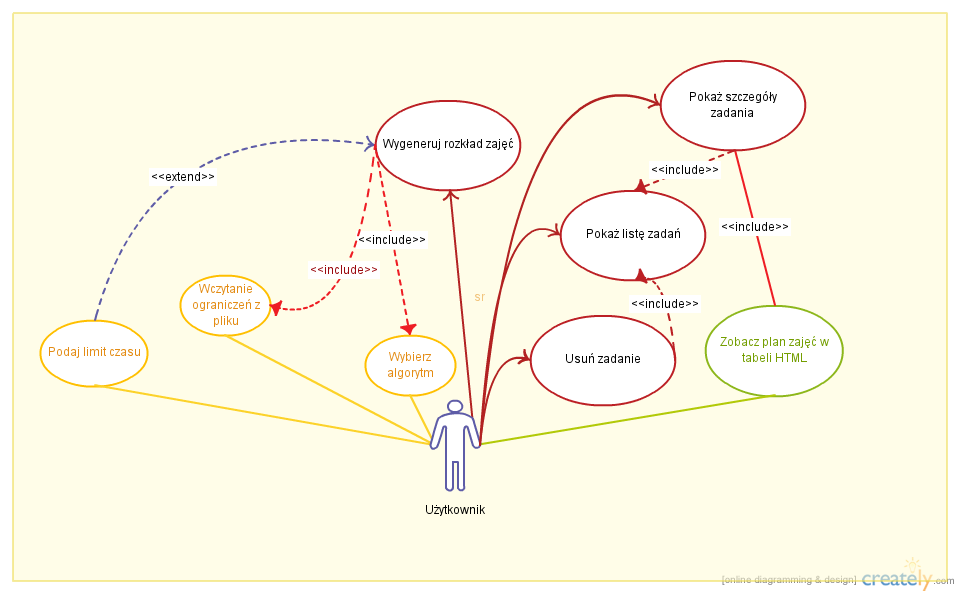
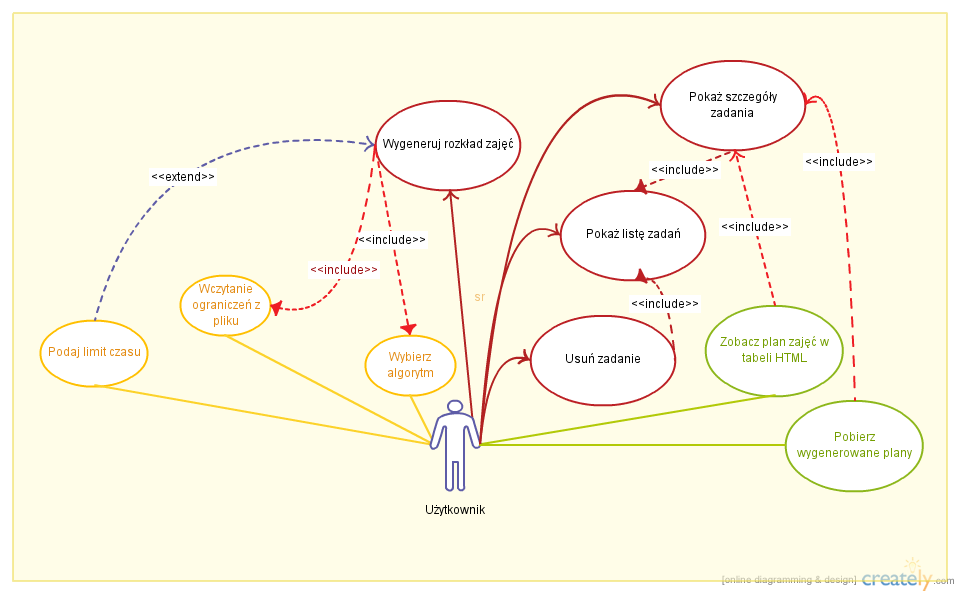
dfjhgkdjfh

diff --git a/docs/chapters/projekt_systemu.tex b/docs/chapters/projekt_systemu.tex
@@ -26,6 +26,7 @@
 \item Pobieranie z pliku tekstowego wedle ustalonego wzorca zestawu ograniczeń opisujących potrzeby rozkładu zajęć.
 \item Podgląd listy wykonanych wcześniej zadań oraz stanu uruchomionych obecnie procesów.
 \item Wybranie z listy zadań konkretnego przypadku i odczytanie informacji o przyporządkowanych zajęciach do poszczególnych kursów.
+\item Pobranie wygenerowanego rozkładu zajęć w formie pliku \emph{.CSV}.
 \item W widoku zakończonego zadania możliwość wybrania z listy programów nauczania dowolnego z nich i wizualizacji planu w komponencie kalendarza.
 \end{itemize}
 \section{Zastosowanie}
@@ -47,7 +48,7 @@
 \item \textbf{Pokaż listę zadań} - Po wybraniu z menu opcji \emph{List all tasks} pokaże się lista dotychczas wykonanych zadań.
 \item \textbf{Usuń zadanie} - Po wybraniu z menu opcji \emph{List all tasks} pokaże się lista zadań, a każde z nich będzie można usunąć poprzez kliknięcie na przycisk \emph{Delete}, co wywoła następnie odświeżenie listy.
 \item \textbf{Zobacz plan zajęć w tabeli HTML} - Po wybraniu konkretnego zadania z widoku listy, dla każdego elementu z listy programów nauczania zawartych w planie, dostępny będzie przycisk wywołujący wizualizację wygenerowanego dla niego planu w postaci komponentu kalendarza.
-%\item{Pobierz wygenerowane plany} - Po wybraniu konkretnego zadania z widoku listy, dostępny będzie przycisk umożliwiający pobranie wszystkich planów w postaci arkuszy w pliku \emph{.csv}.
+\item{Pobierz wygenerowane plany} - Po wybraniu konkretnego zadania z widoku listy, dostępny będzie przycisk umożliwiający pobranie wszystkich planów w postaci arkuszy w pliku \emph{.csv}.
 \end{enumerate}
 \section{Architektura systemu}
 \paragraph{} Ogólna architektura systemu oparta jest na modelu klient - serwer. Wszystkie operacje logiczne są wykonywane po stronie serwera, natomiast część kliencka odpowiada jedynie za pobranie danych i prezentację wyników. W części serwera zawarte są następujące komponenty.

diff --git a/docs/chapters/ga.tex b/docs/chapters/ga.tex
@@ -19,6 +19,12 @@
 \item Przeprowadzana jest mutacja, czyli wprowadzenie drobnych losowych zmian u niektórych osobników.
 \item Rodzi się kolejne pokolenie. Aby utrzymać stałą liczbę osobników w populacji te najlepsze według funkcji oceny przystosowania są powielane, a najsłabsze usuwane. Jeżeli nie znaleziono dostatecznie dobrego rozwiązania, algorytm powraca do kroku drugiego. W przeciwnym wypadku wybieramy najlepszego osobnika z populacji - jego genotyp to uzyskany wynik.
 \end{enumerate}
+\par Ilustrację powyższego procesu jest przedstawiony poniżej wykres:
+\begin{figure}[H]
+  \caption{Schemat działania algorytmu genetycznego}
+  \centering
+    \includegraphics[width=0.3\textwidth]{img/schematGA.png}
+\end{figure}
 \subsection{Historia i zastosowanie}
 Sposób działania algorytmów genetycznych nieprzypadkowo przypomina zjawisko ewolucji biologicznej, ponieważ ich twórca John Henry Holland właśnie z biologii czerpał inspiracje do swoich prac\cite{Mitchell}. W 1975 roku wydał książkę \emph{Adaptation in Natural and Artificial Systems}, w której jako pierwszy wykazał, jak procesy genetyczne mogą mieć zastosowanie wśród rozwiązywania problemów optymalizacyjnych. Specyfika działania algorytmu czyni go bardzo uniwersalnym. Możliwości jego użycia wybiegają poza czystą algorytmikę i znajduje on zastosowanie w bioinformatyce, inżynierii, ekonomii, chemii, matematyce czy fizyce. Konkretnymi przykładami mogą być np. poszukiwanie najbardziej aerodynamicznego kształtu skrzydła samolotu, opracowanie kształtu anteny najlepiej odbierającej fale radiowe albo, tak jak w tym przypadku, problem układania planu zajęć.
 \subsection{Fazy algorytmu w implementowanym rozwiązaniu}
